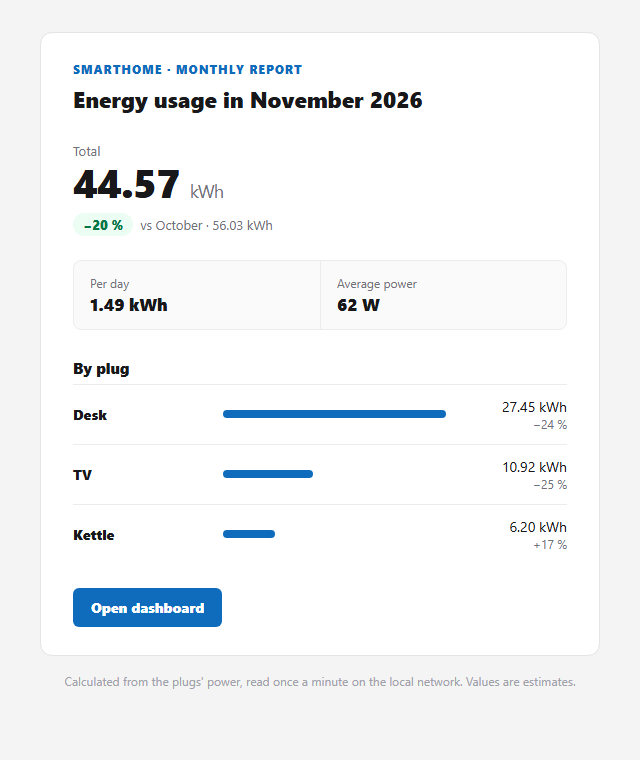
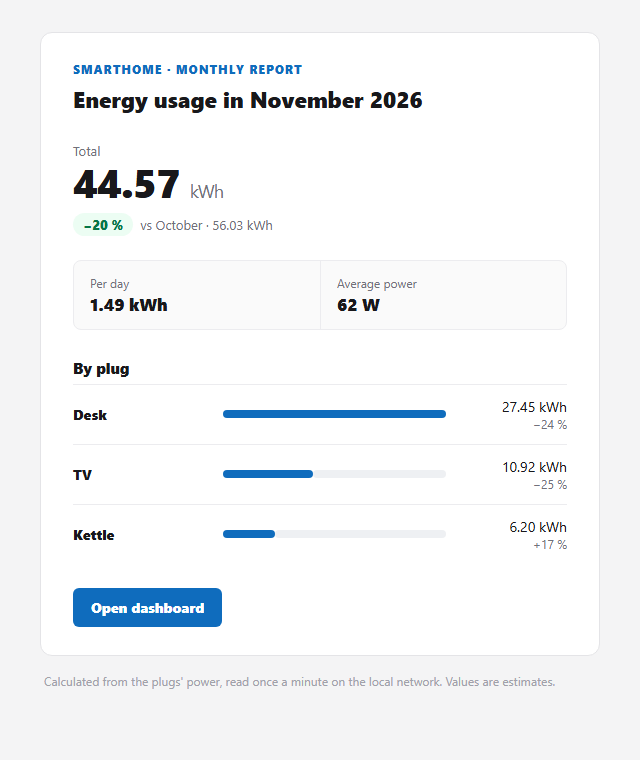
Make the report mail render in Outlook for Windows
Fixed 560 px width with align=center, button as a table cell, bgcolor
attributes and explicit bar heights for the Word rendering engine.

Changed region(s): [[0.0625, 0.8776, 0.9062, 0.9079]]

diff --git a/report.php b/report.php
@@ -59,6 +59,7 @@ $stat = fn(string $label, string $value, string $border = '') => "<td width=\"50
     . "<div style=\"font-size:12px;color:#71717a;\">$label</div><div style=\"font-size:17px;font-weight:600;color:#18181b;margin-top:2px;\">$value</div></td>";
 
 $rowsHtml = '';
+$bar8 = 'height:8px;font-size:1px;line-height:8px;mso-line-height-rule:exactly;';   // Outlook ignores height without it
 foreach ($rows as $r) {
     $bar = max(1, round($r['now'] / $max * 100));
     $p = $change($r['now'], $r['old']);
@@ -66,8 +67,8 @@ foreach ($rows as $r) {
         . '<td style="padding:12px 0;border-top:1px solid #ececef;font-size:14px;color:#18181b;font-weight:600;" width="28%">' . $e($r['name']) . '</td>'
         . '<td style="padding:12px 12px;border-top:1px solid #ececef;">'
         .   '<table role="presentation" width="100%" cellpadding="0" cellspacing="0"><tr>'
-        .   "<td width=\"$bar%\" height=\"8\" style=\"background:#0f6cbd;border-radius:4px;font-size:0;line-height:0;\">&nbsp;</td>"
-        .   ($bar < 100 ? '<td style="font-size:0;line-height:0;">&nbsp;</td>' : '')
+        .   "<td width=\"$bar%\" height=\"8\" bgcolor=\"#0f6cbd\" style=\"background:#0f6cbd;border-radius:4px;$bar8\">&nbsp;</td>"
+        .   ($bar < 100 ? "<td height=\"8\" bgcolor=\"#eef0f3\" style=\"background:#eef0f3;border-radius:4px;$bar8\">&nbsp;</td>" : '')
         .   '</tr></table></td>'
         . '<td align="right" style="padding:12px 0;border-top:1px solid #ececef;font-size:14px;color:#18181b;white-space:nowrap;" width="22%">' . $e($kwh($r['now']))
         . ($p === null ? '' : '<div style="font-size:12px;color:#71717a;">' . $e($pct($p)) . '</div>') . '</td>'
@@ -77,18 +78,21 @@ foreach ($rows as $r) {
 $notice = $hasData ? '' : '<p style="margin:20px 0 0;padding:12px 14px;background:#fffaeb;border:1px solid #fedf89;border-radius:8px;font-size:13px;color:#93370d;">'
     . 'No readings for this month. Check that the counter cron job (counter.php) is running.</p>';
 $button = defined('DASHBOARD_URL')
-    ? '<a href="' . $e(DASHBOARD_URL) . '" style="display:inline-block;padding:10px 18px;background:#0f6cbd;color:#ffffff;text-decoration:none;border-radius:6px;font-size:14px;font-weight:600;">Open dashboard</a>'
+    // the padding sits on the table cell: Outlook ignores padding on links
+    ? '<table role="presentation" cellpadding="0" cellspacing="0"><tr><td bgcolor="#0f6cbd" style="background:#0f6cbd;border-radius:6px;padding:10px 18px;">'
+      . '<a href="' . $e(DASHBOARD_URL) . '" style="color:#ffffff;text-decoration:none;font-size:14px;font-weight:600;display:block;">Open dashboard</a></td></tr></table>'
     : '';
 
 $html = <<<HTML
 <!DOCTYPE html>
 <html lang="en"><head><meta charset="UTF-8"><meta name="viewport" content="width=device-width,initial-scale=1">
 <meta name="color-scheme" content="light only"><title>{$e($subject)}</title></head>
-<body style="margin:0;padding:0;background:#f4f4f5;">
+<body bgcolor="#f4f4f5" style="margin:0;padding:0;background:#f4f4f5;">
 <div style="display:none;max-height:0;overflow:hidden;">{$e($kwh($total))} used in {$e($monthLabel)}</div>
-<table role="presentation" width="100%" cellpadding="0" cellspacing="0" style="background:#f4f4f5;$font">
+<table role="presentation" width="100%" cellpadding="0" cellspacing="0" bgcolor="#f4f4f5" style="background:#f4f4f5;$font">
 <tr><td align="center" style="padding:32px 16px;">
-  <table role="presentation" width="100%" cellpadding="0" cellspacing="0" style="max-width:560px;background:#ffffff;border:1px solid #e4e4e7;border-radius:12px;">
+  <!-- width attribute for Outlook, max-width for everyone else -->
+  <table role="presentation" width="560" align="center" cellpadding="0" cellspacing="0" bgcolor="#ffffff" style="width:100%;max-width:560px;background:#ffffff;border:1px solid #e4e4e7;border-radius:12px;">
   <tr><td style="padding:28px 32px 8px;">
     <div style="font-size:12px;font-weight:600;letter-spacing:.08em;text-transform:uppercase;color:#0f6cbd;">Smarthome &middot; Monthly report</div>
     <h1 style="margin:8px 0 0;font-size:22px;line-height:1.3;font-weight:600;color:#18181b;">Energy usage in {$e($monthLabel)}</h1>
@@ -99,7 +103,7 @@ $html = <<<HTML
     <div style="margin-top:8px;">$delta</div>
   </td></tr>
   <tr><td style="padding:20px 32px 8px;">
-    <table role="presentation" width="100%" cellpadding="0" cellspacing="0" style="background:#fafafa;border:1px solid #ececef;border-radius:8px;"><tr>
+    <table role="presentation" width="100%" cellpadding="0" cellspacing="0" bgcolor="#fafafa" style="background:#fafafa;border:1px solid #ececef;border-radius:8px;"><tr>
       {$stat('Per day', $e(number_format($total / $days, 2)) . ' kWh')}
       {$stat('Average power', $e(round($total / ($days * 24) * 1000)) . ' W', 'border-left:1px solid #ececef;')}
     </tr></table>
@@ -111,9 +115,9 @@ $html = <<<HTML
   </td></tr>
   <tr><td style="padding:16px 32px 28px;">$button</td></tr>
   </table>
-  <p style="max-width:560px;margin:16px auto 0;font-size:12px;line-height:1.5;color:#a1a1aa;">
-    Calculated from the plugs' power, read once a minute on the local network. Values are estimates.
-  </p>
+  <table role="presentation" width="560" align="center" cellpadding="0" cellspacing="0" style="width:100%;max-width:560px;"><tr>
+    <td style="padding:16px 4px 0;font-size:12px;line-height:1.5;color:#a1a1aa;">Calculated from the plugs' power, read once a minute on the local network. Values are estimates.</td>
+  </tr></table>
 </td></tr>
 </table>
 </body></html>
